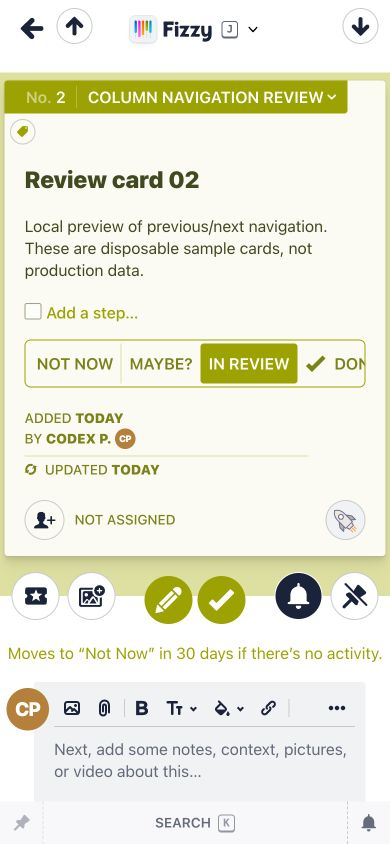
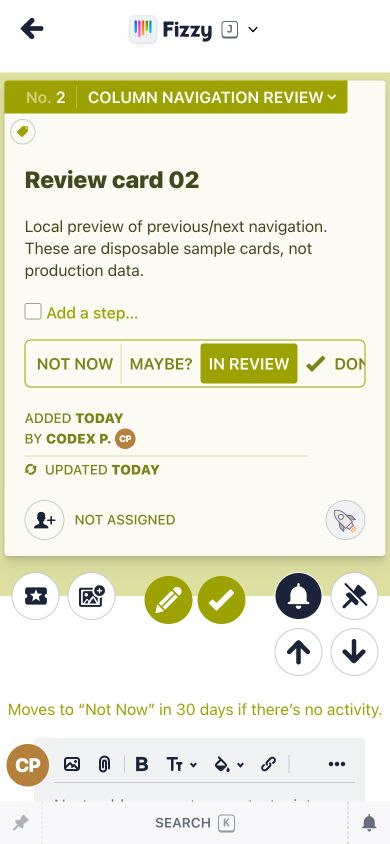
Refresh review evidence for lighter arrows on card frame

diff --git a/analysis-pl.md b/analysis-pl.md
@@ -4,18 +4,18 @@
 
 Otwarta karta nie pozwala dziś przejść do sąsiedniej karty. Trzeba wrócić do boardu, odnaleźć kolumnę i ponownie przewinąć listę. To szczególnie przeszkadza przy przeglądaniu długiej kolejki i zamykaniu zadań po kolei.
 
-Proponowana zmiana dodaje dwa okrągłe przyciski w nagłówku karty: ↑ po lewej, obok powrotu do boardu, i ↓ po prawej. Shift+↑ otwiera poprzednią kartę, Shift+↓ następną. Esc nadal wraca do punktu wejścia. Na początku i końcu kolejki odpowiedni przycisk jest wyłączony; lista nie zawija się.
+Proponowana zmiana dodaje dwa okrągłe przyciski na prawej ramce karty, pod dzwonkiem i pinezką: ↑ nad ↓. Na telefonie są w drugim rzędzie pod tymi samymi ikonami. Shift+↑ otwiera poprzednią kartę, Shift+↓ następną. Esc nadal wraca do punktu wejścia. Na początku i końcu kolejki odpowiedni przycisk jest wyłączony; lista nie zawija się.
 
 ## Co wynika z kodu
 
-Analiza dotyczy źródeł Basecamp Fizzy. Implementację przygotowałem na main `48f56c0453e27e825dbc55369263e6beb3e60da5`, commit zmiany: `c4b6ddd126396cf113984b990ecab739fd49a9cd`.
+Analiza dotyczy źródeł Basecamp Fizzy. Implementację przygotowałem na main `48f56c0453e27e825dbc55369263e6beb3e60da5`, aktualny commit zmiany: `c91ea677b156ec4b66d11e914b156cd02e5ac38b`.
 
 - Widok boardu ma już nawigację klawiaturą przez `navigable_list_controller.js`. Otwarty widok karty nie ma jednak kontekstu poprzedniej i następnej karty.
 - Kolumny wyświetlają aktywne karty przez `.latest.with_golden_first`. Golden Tickets mają pierwszeństwo, następnie decydują ostatnia aktywność i identyfikator.
 - Lista kolumny jest stronicowana. Czytanie wyłącznie elementów obecnych w DOM zatrzymałoby nawigację na końcu załadowanej strony.
 - Aktywność zmienia pozycję karty. Wyliczanie kolejki od nowa po każdym komentarzu mogłoby powodować przeskoki, powtórzenia i pomijanie kart.
 - `turbo_navigation_controller.js` pamięta poprzedni ekran. Po kilku przejściach między kartami trzeba zachować pierwotny adres powrotu, aby Esc nadal prowadził do boardu.
-- Fizzy ma już okrągłe przyciski i ikonę arrow-up. Wykorzystanie tych elementów daje zgodny wygląd i zachowanie w istniejącym motywie.
+- Fizzy ma już okrągłe przyciski i ikonę arrow-up. Przyciski korzystają z istniejących klas, a nowy wariant arrow-up-light zachowuje zaokrąglenia przy grubości 4,25 jednostki zamiast 5 jednostek trzonu pierwotnej ikony — około 15% mniej.
 
 ## Zachowanie kolejki
 
@@ -34,12 +34,12 @@ Przejście klawiaturą jest blokowane podczas pisania w formularzu lub edytorze,
 | Card::Navigation | Dobór kolumny, zakresu kart i ich kolejności |
 | Cards::NavigationsController | Odczyt numerów kart przez istniejące uprawnienia |
 | card_navigation_controller.js | Zapamiętanie kolejki, skróty, przejścia i powrót |
-| cards/_navigation.html.erb | Przyciski w istniejącym nagłówku |
-| card-navigation.css | Obrót istniejącej ikony dla kierunku w dół |
+| cards/_navigation.html.erb | Przyciski pod istniejącymi akcjami na prawej ramce |
+| card-navigation.css | Układ przycisków na desktopie i telefonie oraz obrót strzałki w dół |
 
 Endpoint `GET /{account}/cards/{number}/navigation` zwraca `numbers`, `column_id` i `name`. Bieżąca karta jest wyszukiwana przez `Current.user.accessible_cards`; wskazana kolumna musi należeć do boardu tej karty. Klucz pamięci przeglądarki zawiera ścieżkę konta, więc kolejki różnych kont i kart przeglądarki są rozdzielone.
 
-Zmiana nie wymaga migracji bazy ani nowych zależności. Zajmuje 10 plików, w tym trzy pliki testów.
+Zmiana nie wymaga migracji bazy ani nowych zależności. Zajmuje 12 plików, w tym trzy pliki testów.
 
 ## Zakres i ograniczenia
 
@@ -51,17 +51,18 @@ Błąd pobierania wyłącza przyciski, pozostawiając kartę dostępną; ponowne
 
 ## Weryfikacja
 
-Końcowy zestaw: **18 testów, 76 asercji, bez błędów i pominięć**. Obejmuje nowe testy modelu, endpointu i przeglądarki oraz istniejące testy powrotu do boardu i jego nawigacji klawiaturą.
+Zestaw dla pierwszego commitu: **18 testów, 76 asercji, bez błędów i pominięć**. Obejmuje nowe testy modelu, endpointu i przeglądarki oraz istniejące testy powrotu do boardu i jego nawigacji klawiaturą.
 
 Sprawdzone przypadki: Golden Tickets, pełna lista ponad pierwszą stronę, Maybe, dostęp do prywatnego boardu, obca kolumna, oba przyciski i skróty, brak zawijania, stała kolejność mimo aktywności, pomijanie zamkniętej karty, zamknięcie bieżącej karty, edytor, dialog oraz Esc.
 
+Po przeniesieniu przycisków ponownie przeszło 10 testów systemowych i 53 asercje, w tym zamknięcie bieżącej karty i Esc. Zmianę grubości SVG oraz końcowy układ sprawdziłem ponownie w przeglądarce.
+
 Rubocop: sześć plików, bez uwag. Kontrola składni JavaScript i diffu również przeszła.
 
-Ręczny odbiór wykonany w prawdziwej przeglądarce na **lokalnym podglądzie**, na kodzie tej zmiany i przykładowym boardzie z 70 kartami: desktop 1280×720 oraz telefon 390×844. Sprawdziłem kliknięcia, skrót, przejście 15→16 poza pierwszą stronę kolumny oraz Esc. Na telefonie oba przyciski mieszczą się w nagłówku; szerokość dokumentu wynosi 390 px, bez poziomego przepełnienia. Zrzuty pokazują wyłącznie przykładowe dane.
+Ręczny odbiór wykonany w prawdziwej przeglądarce na **lokalnym podglądzie**, na kodzie tej zmiany i przykładowym boardzie z 70 kartami: desktop 1280×720 oraz telefon 390×844. Sprawdziłem kliknięcia, skrót, przejście 15→16 poza pierwszą stronę kolumny oraz Esc. Na telefonie oba przyciski są pod dzwonkiem i pinezką i mają ten sam rozmiar 48×48 px; szerokość dokumentu wynosi 390 px, bez poziomego przepełnienia. Zrzuty pokazują wyłącznie przykładowe dane.
 
 Nie wdrożono zmiany na produkcję. Do użycia we własnej instancji potrzebny będzie obraz aplikacji zawierający ten commit; obecna konfiguracja wdrożenia nadal wskazuje dotychczasowy obraz.
 
 ## Rekomendacja
 
 Zostawiłbym ten zakres jako pierwszy, atomowy PR. Usuwa główną przeszkodę w przeglądaniu kolumny i nie wymaga nowego systemu skrótów ani przebudowy boardu. Kolejki filtrowanych wyników warto dodać osobno, jeśli okażą się potrzebne w codziennej pracy.
-

diff --git a/README.md b/README.md
@@ -1,7 +1,9 @@
 # Card column navigation — review evidence
 
 Screenshots from an isolated local Fizzy preview with 70 disposable sample cards.
-Implementation commit: c4b6ddd126396cf113984b990ecab739fd49a9cd, based on upstream main 48f56c0453e27e825dbc55369263e6beb3e60da5.
+Implementation commit: c91ea677b156ec4b66d11e914b156cd02e5ac38b, based on upstream main 48f56c0453e27e825dbc55369263e6beb3e60da5.
+
+Both arrows sit below the watch/pin controls on the right edge. Arrow strokes are approximately 15% lighter than the original arrow-up icon.
 
 Desktop: 1280×720. Mobile: 390×844. Neither screenshot is from production.
 
